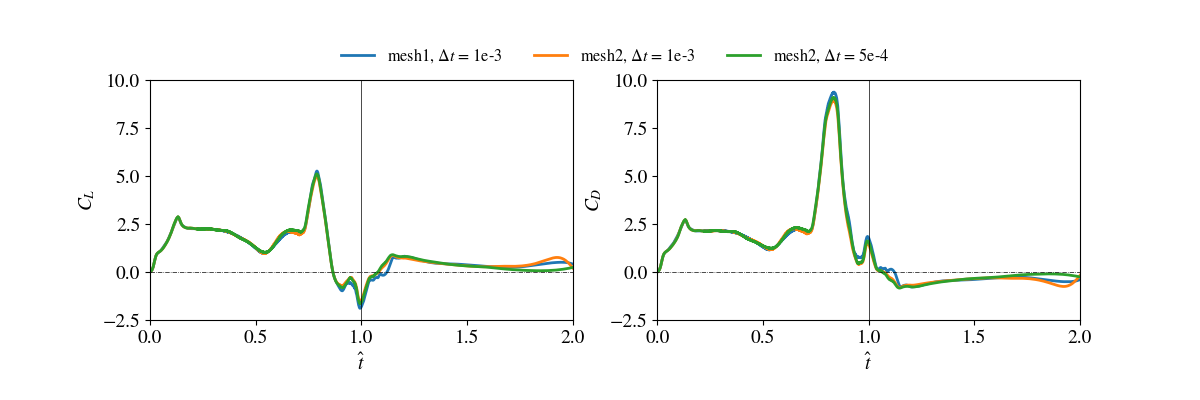
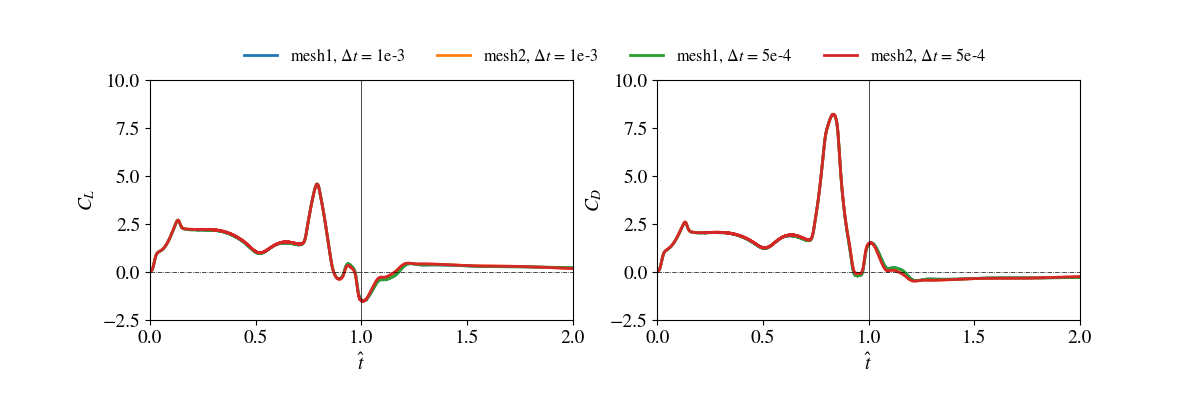
updated convergence

diff --git a/wake_convection_figures/figure_mesh_and_convergence/mcplotting_functions.py b/wake_convection_figures/figure_mesh_and_convergence/mcplotting_functions.py
@@ -8,6 +8,7 @@ import matplotlib.patches as patches
 import matplotlib.path as path
 import matplotlib.pyplot as plt
 import numpy as np
+from scipy.interpolate import UnivariateSpline
 
 
 def read_cfd_data(cfd_data_file):
@@ -68,6 +69,8 @@ def cf_plotter(data_array, legends, time_to_plot, show_range, image_out_path,
     range_cd = show_range[1]
 
     fig, axs = plt.subplots(1, 2)
+    mcl_arr = []
+    mcd_arr = []
     if plot_mode == 'against_t':
         for i in range(len(legends)):
             axs[0].plot(cf_array[i][:, 0] / cycle_time,
@@ -76,6 +79,35 @@ def cf_plotter(data_array, legends, time_to_plot, show_range, image_out_path,
             axs[1].plot(cf_array[i][:, 0] / cycle_time,
                         cf_array[i][:, 1],
                         label=legends[i])
+
+            cl_spl = UnivariateSpline(cf_array[i][:, 0],
+                                      cf_array[i][:, 3],
+                                      s=0)
+            mcl_s = cl_spl.integral(0.0, 1.0)
+            mcl_w = cl_spl.integral(1.0, 2.0)
+            mcl = cl_spl.integral(0.0, 2.0)
+
+            cd_spl = UnivariateSpline(cf_array[i][:, 0],
+                                      cf_array[i][:, 1],
+                                      s=0)
+            mcd_s = cd_spl.integral(0.0, 1.0)
+            mcd_w = cd_spl.integral(1.0, 2.0)
+            mcd = cd_spl.integral(0.0, 2.0)
+
+            mcl_arr.append([mcl_s, mcl_w, mcl])
+            mcd_arr.append([mcd_s, mcd_w, mcd])
+
+            with open('meancf_convergence.dat', 'w') as f:
+                for item, cf_lgd in zip(mcl_arr, legends):
+                    f.write("%s:\n" % cf_lgd)
+                    f.write("mcl_s = %s, mcl_w = %s, mcl = %s\n" %
+                            ('{0:.8g}'.format(item[0]), '{0:.8g}'.format(
+                                item[1]), '{0:.8g}'.format(item[2])))
+                for item, ref_lgd in zip(mcd_arr, legends):
+                    f.write("%s:\n" % ref_lgd)
+                    f.write("mcd_s = %s, mcd_w = %s, mcd = %s\n" %
+                            ('{0:.8g}'.format(item[0]), '{0:.8g}'.format(
+                                item[1]), '{0:.8g}'.format(item[2])))
 
         if time_to_plot != 'all':
             axs[0].set_xlim(time_to_plot)
@@ -117,7 +149,7 @@ def mesh_plotter(image_out_path):
         'lines.linewidth': 0.5,
         'lines.markersize': 0.1,
         'lines.markerfacecolor': 'white',
-        'figure.dpi': 300,
+        'figure.dpi': 200,
     })
 
     circle_bg = plt.Circle((0, 0), 20, color='k', linewidth=0.5, fill=False)

diff --git a/wake_convection_figures/figure_mesh_and_convergence/mesh_convergence_figure.py b/wake_convection_figures/figure_mesh_and_convergence/mesh_convergence_figure.py
@@ -4,16 +4,16 @@ import os
 from mcplotting_functions import read_cfd_data, cf_plotter, mesh_plotter
 #-------------input plot control----------
 cfd_data_list = [
-    'Re10000.0_stroke6.0_acf0.25_pf0.25_pa90.0_basic',
-    'Re10000.0_stroke6.0_acf0.25_pf0.25_pa90.0_sc',
-    # 'Re10000.0_stroke6.0_acf0.25_pf0.25_pa90.0_tc',
-    'Re10000.0_stroke6.0_acf0.25_pf0.25_pa90.0_sctc'
+    'Re1000.0_stroke6.0_acf0.25_pf0.25_pa90.0_basic',
+    'Re1000.0_stroke6.0_acf0.25_pf0.25_pa90.0_sc',
+    'Re1000.0_stroke6.0_acf0.25_pf0.25_pa90.0_tc',
+    'Re1000.0_stroke6.0_acf0.25_pf0.25_pa90.0_sctc'
 ]
 #-----------------------------------------
 legends = [
     r'mesh1, $\Delta t$ = 1e-3',
     r'mesh2, $\Delta t$ = 1e-3',
-    # r'mesh1, $\Delta t$ = 5e-4',
+    r'mesh1, $\Delta t$ = 5e-4',
     r'mesh2, $\Delta t$ = 5e-4'
 ]
 # legends = [
